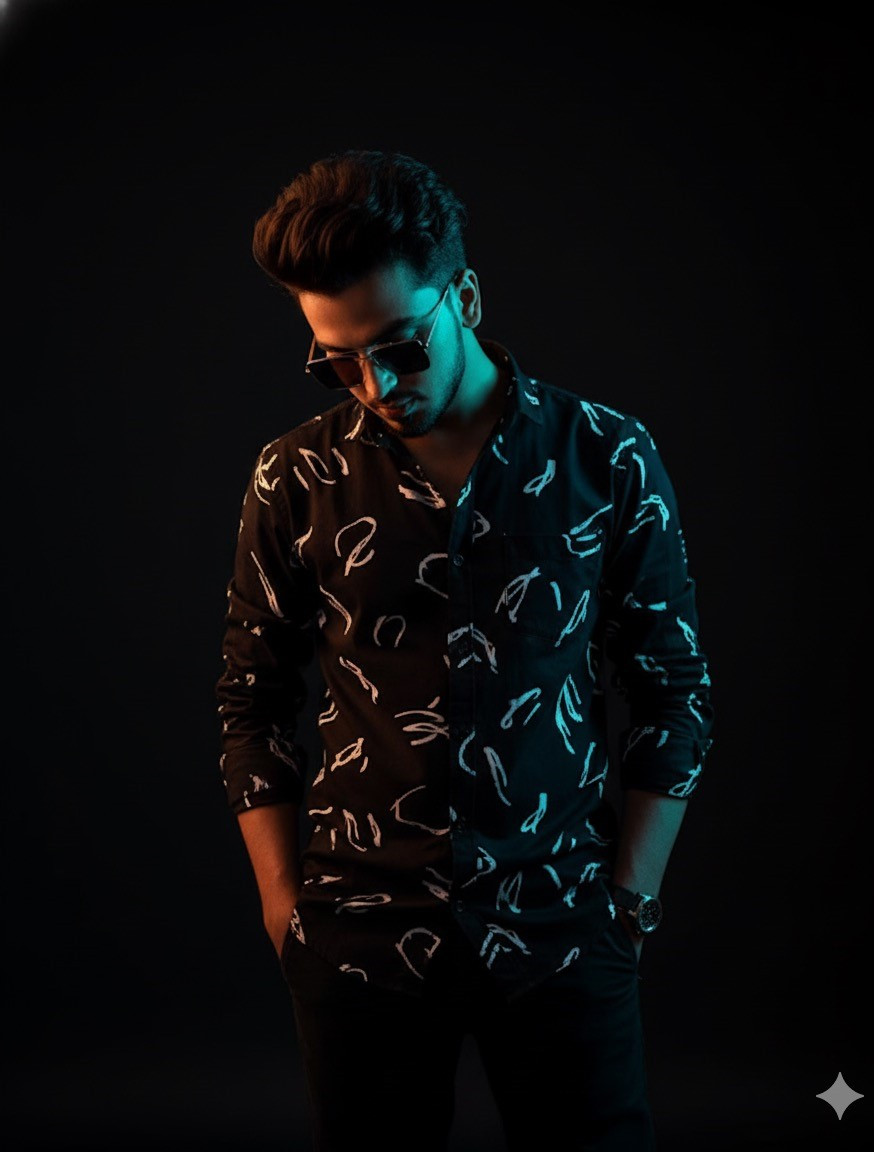
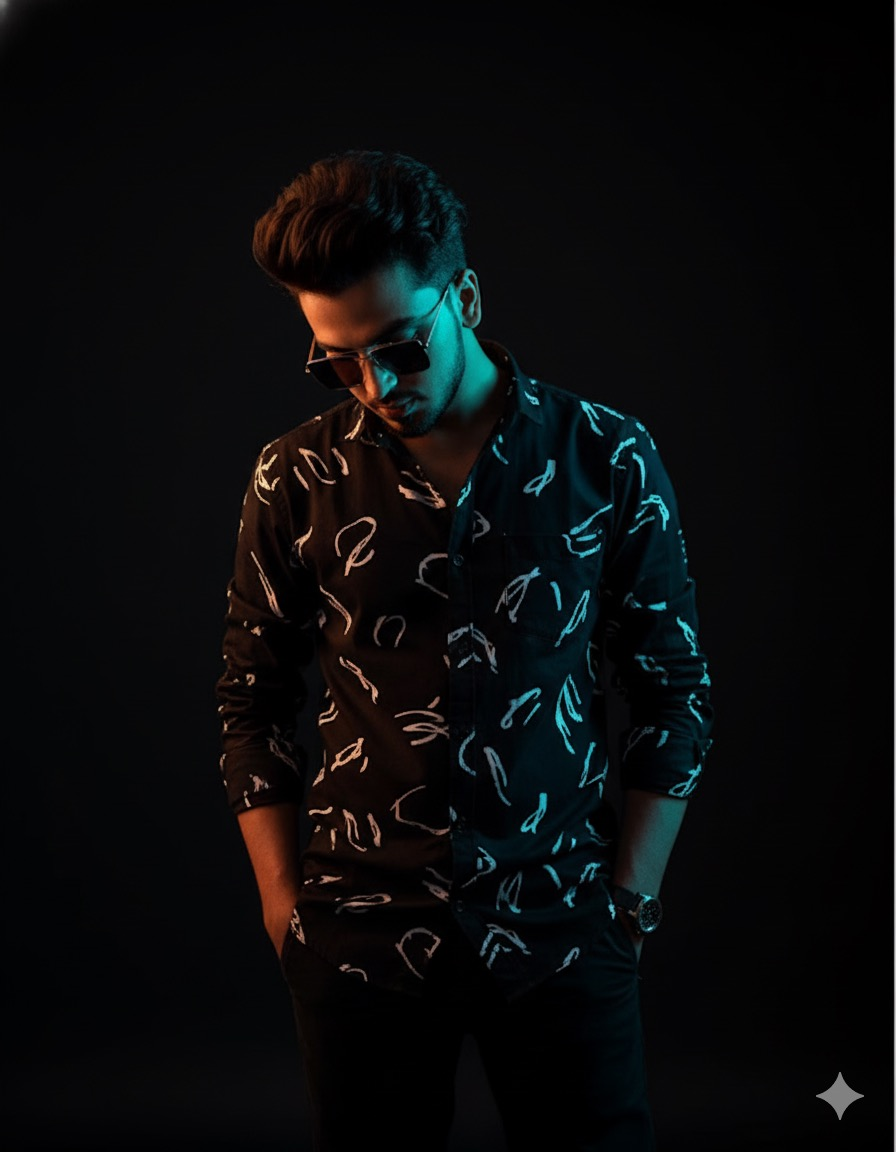
Updated portfolio UI and added new images

Changed region(s): [[0.2471, 0.125, 0.8341, 0.8438], [0.8959, 0.0, 1.0, 1.0]]

diff --git a/index.html b/index.html
@@ -72,7 +72,7 @@
 
       <div class="container d-flex flex-column align-items-center justify-content-center text-center" data-aos="fade-up" data-aos-delay="100">
         <h2>I am Shoaib Khan</h2>
-        <p><span class="typed" data-typed-items="Junior Web Developer"></span></p>
+        <p><span class="typed" data-typed-items="Web Developer"></span></p>
       </div>
 
     </section><!-- /Hero Section -->
@@ -87,11 +87,11 @@
 
             <div class="row justify-content-between gy-4">
               <div class="col-lg-5">
-                <img src="assets/New/IMG_7434.JPG" class="img-fluid" alt="">
+                <img src="assets/New/IMG_7808.JPG" class="img-fluid" alt="">
               </div>
               <div class="col-lg-7 about-info">
                 <p><strong style="font-size: 20px;">Name: </strong> <span>Shoaib Khan</span></p>
-                <p><strong style="font-size: 20px;">Profile: </strong> <span>Junior Web developer</span></p>
+                <p><strong style="font-size: 20px;">Profile: </strong> <span>Web developer</span></p>
                 <p><strong style="font-size: 20px;">Email: </strong> <span>Shokhan5430@gmail.com</span></p>
                 <p><strong style="font-size: 20px;">Phone: </strong> <span>03092442227</span></p>
                 <p><strong style="font-size: 20px;">Location: </strong> <span>Karachi, Pakistan</span></p>
@@ -401,14 +401,14 @@
 
           <div class="col-lg-3 col-md-6">
             <div class="stats-item text-center w-100 h-100">
-              <span data-purecounter-start="0" data-purecounter-end="5" data-purecounter-duration="0" class="purecounter">5</span>
+              <span data-purecounter-start="0" data-purecounter-end="6" data-purecounter-duration="0" class="purecounter">6</span>
               <p>Projects</p>
             </div>
           </div><!-- End Stats Item -->
 
           <div class="col-lg-3 col-md-6">
             <div class="stats-item text-center w-100 h-100">
-              <span data-purecounter-start="0" data-purecounter-end="12" data-purecounter-duration="0" class="purecounter"></span>
+              <span data-purecounter-start="0" data-purecounter-end="12" data-purecounter-duration="0" class="purecounter">12</span>
               <p>Technologies Learned</p>
             </div>
           </div><!-- End Stats Item -->

diff --git a/airlineadmin.html b/airlineadmin.html
@@ -9,8 +9,8 @@
   <meta name="keywords" content="">
 
   <!-- Favicons -->
-  <link href="assets/img/favicon.png" rel="icon">
-  <link href="assets/img/apple-touch-icon.png" rel="apple-touch-icon">
+  <link href="assets/img/SK-logo.png" rel="icon">
+  <link href="assets/img/SK-logo.png" rel="apple-touch-icon">
 
   <!-- Fonts -->
   <link href="https://fonts.googleapis.com" rel="preconnect">

diff --git a/airlineclient.html b/airlineclient.html
@@ -9,8 +9,8 @@
   <meta name="keywords" content="">
 
   <!-- Favicons -->
-  <link href="assets/img/favicon.png" rel="icon">
-  <link href="assets/img/apple-touch-icon.png" rel="apple-touch-icon">
+  <link href="assets/img/SK-logo.png" rel="icon">
+  <link href="assets/img/SK-logo.png" rel="apple-touch-icon">
 
   <!-- Fonts -->
   <link href="https://fonts.googleapis.com" rel="preconnect">

diff --git a/calculator.html b/calculator.html
@@ -9,8 +9,8 @@
   <meta name="keywords" content="">
 
   <!-- Favicons -->
-  <link href="assets/img/favicon.png" rel="icon">
-  <link href="assets/img/apple-touch-icon.png" rel="apple-touch-icon">
+  <link href="assets/img/SK-logo.png" rel="icon">
+  <link href="assets/img/SK-logo.png" rel="apple-touch-icon">
 
   <!-- Fonts -->
   <link href="https://fonts.googleapis.com" rel="preconnect">

diff --git a/hudson.html b/hudson.html
@@ -9,8 +9,8 @@
   <meta name="keywords" content="">
 
   <!-- Favicons -->
-  <link href="assets/img/favicon.png" rel="icon">
-  <link href="assets/img/apple-touch-icon.png" rel="apple-touch-icon">
+  <link href="assets/img/SK-logo.png" rel="icon">
+  <link href="assets/img/SK-logo.png" rel="apple-touch-icon">
 
   <!-- Fonts -->
   <link href="https://fonts.googleapis.com" rel="preconnect">

diff --git a/vmsadmin.html b/vmsadmin.html
@@ -9,8 +9,8 @@
   <meta name="keywords" content="">
 
   <!-- Favicons -->
-  <link href="assets/img/favicon.png" rel="icon">
-  <link href="assets/img/apple-touch-icon.png" rel="apple-touch-icon">
+  <link href="assets/img/SK-logo.png" rel="icon">
+  <link href="assets/img/SK-logo.png" rel="apple-touch-icon">
 
   <!-- Fonts -->
   <link href="https://fonts.googleapis.com" rel="preconnect">

diff --git a/vmsfrontend.html b/vmsfrontend.html
@@ -9,8 +9,8 @@
   <meta name="keywords" content="">
 
   <!-- Favicons -->
-  <link href="assets/img/favicon.png" rel="icon">
-  <link href="assets/img/apple-touch-icon.png" rel="apple-touch-icon">
+  <link href="assets/img/SK-logo.png" rel="icon">
+  <link href="assets/img/SK-logo.png" rel="apple-touch-icon">
 
   <!-- Fonts -->
   <link href="https://fonts.googleapis.com" rel="preconnect">

diff --git a/assets/css/main.css b/assets/css/main.css
@@ -693,7 +693,7 @@ section,
   inset: 0;
   display: block;
   width: 100%;
-  height: 116%;
+  height: 110%;
   object-fit: cover;
   z-index: 1;
 }
